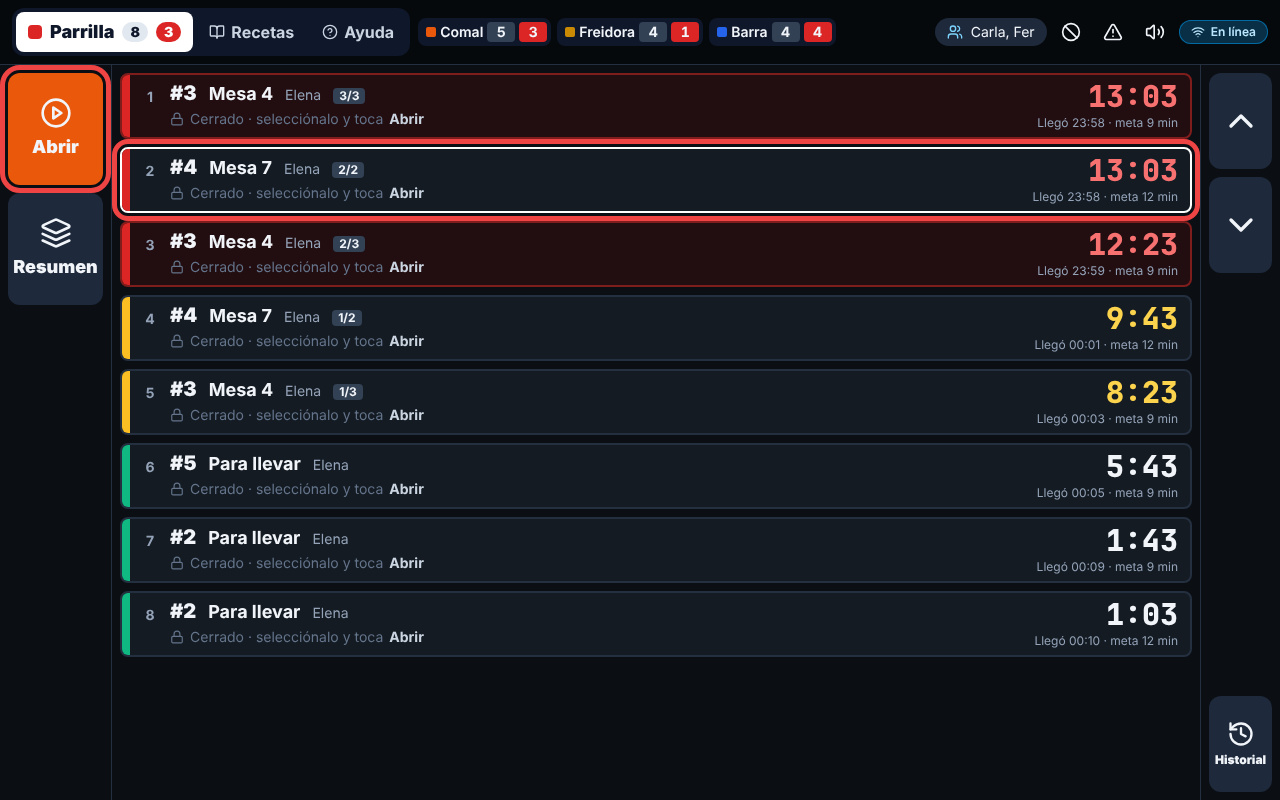
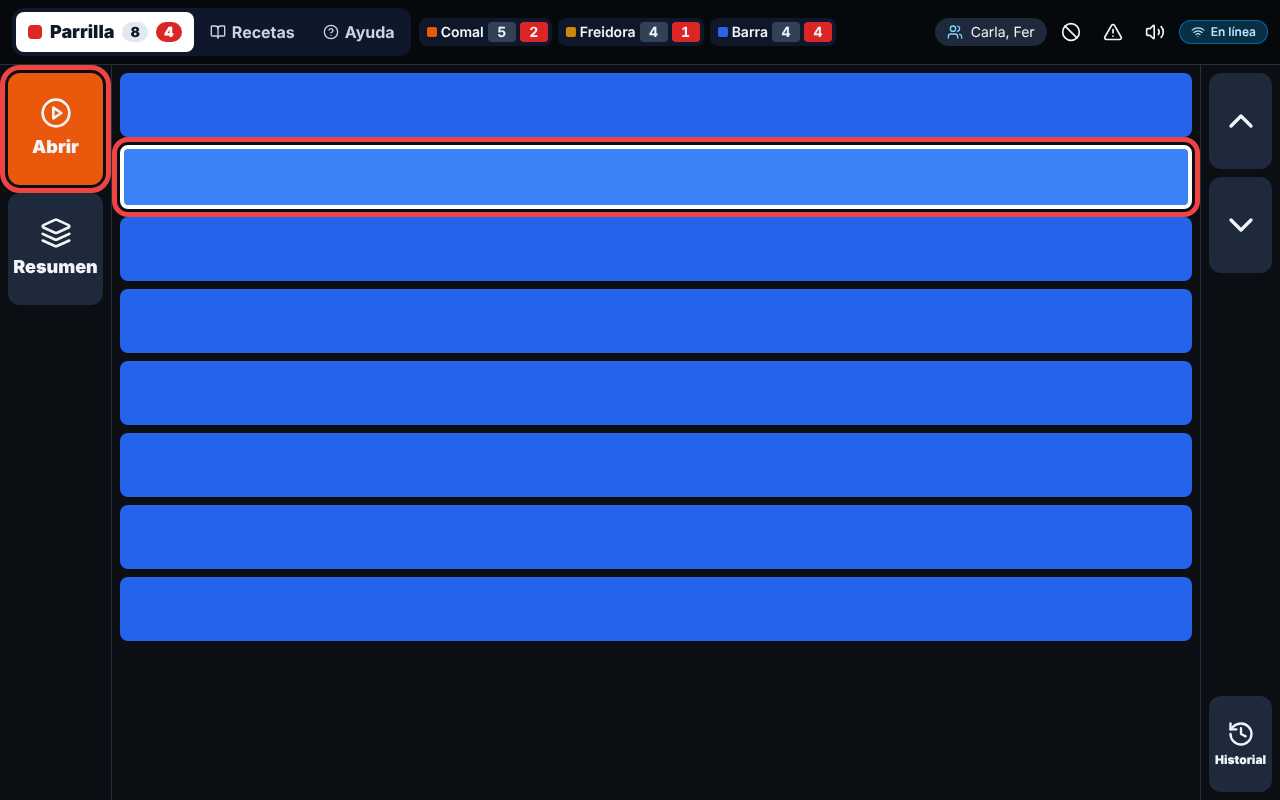
Cocina: tickets cerrados en azul sólido y "Orden N · platillo X de Y" al abrir
Claude-Session: https://claude.ai/code/session_01AAu4YkuVhHAgveMZMVwRgA

diff --git a/src/features/kds/TicketRow.tsx b/src/features/kds/TicketRow.tsx
@@ -1,4 +1,4 @@
-import { AlertOctagon, BookOpen, Check, CloudOff, Lock, MoreHorizontal, RotateCcw, Share2, Star } from 'lucide-react';
+import { AlertOctagon, BookOpen, Check, CloudOff, MoreHorizontal, RotateCcw, Share2, Star } from 'lucide-react';
 import { memo } from 'react';
 import { modifierChips, ticketTiming, actionLabel, type PendingInfo } from '@/lib/kitchen';
 import { clock, formatTime } from '@/lib/time';
@@ -24,6 +24,8 @@ export interface TicketRowProps {
   settings: RestaurantSettings;
   selected: boolean;
   isNew?: boolean;
+  /** Posición del platillo dentro de su orden en esta estación (1 de 3…). */
+  orderPos?: { n: number; total: number };
   onSelect: () => void;
   onBump: () => void;
   onMenu: () => void;
@@ -32,9 +34,9 @@ export interface TicketRowProps {
 }
 
 /**
- * Un renglón por ticket. Cerrado (nuevo) no muestra el contenido; al
- * abrirlo (botón "Abrir" del costado) se ve el platillo y aparecen
- * Receta, "…" y Listo. El cronómetro corre desde que llegó a cocina.
+ * Un renglón por platillo. Cerrado (nuevo) es solo un renglón azul, sin
+ * nada escrito; al abrirlo (botón "Abrir" del costado) se ve todo y
+ * aparecen Receta, "…" y Listo. El cronómetro corre desde que llegó.
  */
 export const TicketRow = memo(function TicketRow(p: TicketRowProps) {
   const t = p.ticket;
@@ -43,6 +45,21 @@ export const TicketRow = memo(function TicketRow(p: TicketRowProps) {
   const open = t.status === 'en_preparacion';
   const live = t.items.filter((i) => i.status !== 'anulado');
   const multi = live.length > 1;
+
+  if (!open) {
+    return (
+      <article
+        onClick={p.onSelect}
+        className={cx('h-16 cursor-pointer rounded-lg border-4 bg-blue-600 transition hover:bg-blue-500',
+          p.selected ? 'border-white' : 'border-blue-600', p.isNew && 'ticket-new')}
+        data-testid={`ticket-${t.order_number}`}
+        data-ticket-id={t.id}
+        data-open="false"
+        aria-selected={p.selected}
+        aria-label={`Ticket cerrado ${p.index + 1}`}
+      />
+    );
+  }
 
   return (
     <article
@@ -61,12 +78,12 @@ export const TicketRow = memo(function TicketRow(p: TicketRowProps) {
 
       <div className="min-w-0 flex-1 py-2 pr-2">
         <div className="flex flex-wrap items-baseline gap-x-3 gap-y-1">
-          <span className="text-xl font-black leading-none">#{t.order_number}</span>
-          <span className="text-lg font-bold leading-none">{ticketPlace(t)}</span>
-          {t.server_name && <span className="text-sm text-slate-400">{t.server_name}</span>}
-          {(t.unit_count ?? 1) > 1 && (
-            <span className="rounded bg-slate-700 px-1.5 text-xs font-bold" title="Unidad de la misma línea">{t.unit_no}/{t.unit_count}</span>
+          <span className="text-xl font-black leading-none">{ticketPlace(t)}</span>
+          <span className="text-base font-semibold leading-none text-slate-300">Orden {t.order_number}</span>
+          {p.orderPos && p.orderPos.total > 1 && (
+            <span className="rounded bg-slate-700 px-1.5 text-sm font-bold" data-testid="order-pos">platillo {p.orderPos.n} de {p.orderPos.total}</span>
           )}
+          {t.server_name && <span className="text-sm text-slate-400">{t.server_name}</span>}
           {t.priority && <span className="flex items-center gap-1 rounded bg-fuchsia-600 px-1.5 text-xs font-bold uppercase"><Star className="h-3 w-3" />Prioridad</span>}
           {t.course > 1 && <span className="rounded bg-violet-700 px-1.5 text-xs font-bold uppercase">Tiempo {t.course}</span>}
           {t.extra_station && <span className="flex items-center gap-1 rounded bg-sky-700 px-1.5 text-xs font-bold uppercase"><Share2 className="h-3 w-3" />Extra</span>}
@@ -79,7 +96,7 @@ export const TicketRow = memo(function TicketRow(p: TicketRowProps) {
           )}
         </div>
 
-        {open ? (
+        {(
           <ul className="mt-2 space-y-1" data-testid="ticket-items">
             {t.items.map((i) => {
               const chips = modifierChips(i.modifiers ?? []);
@@ -113,10 +130,6 @@ export const TicketRow = memo(function TicketRow(p: TicketRowProps) {
               );
             })}
           </ul>
-        ) : (
-          <div className="mt-1 flex items-center gap-1.5 text-sm text-slate-500" data-testid="ticket-closed">
-            <Lock className="h-3.5 w-3.5" /> Cerrado · selecciónalo y toca <b className="text-slate-300">Abrir</b>
-          </div>
         )}
       </div>
 

diff --git a/src/features/kds/KdsPage.tsx b/src/features/kds/KdsPage.tsx
@@ -82,6 +82,17 @@ export function KdsPage() {
   const done = useMemo(() => all.filter((t) => t.status === 'listo' || t.status === 'entregado' || t.status === 'anulado')
     .sort((a, b) => (b.ready_at ?? b.updated_at).localeCompare(a.ready_at ?? a.updated_at)), [all]);
   const selected = queue.find((t) => t.id === selectedId) ?? queue[0] ?? null;
+  // "Orden 675 · platillo 2 de 3": cada platillo es su propio ticket, así que una orden se repite.
+  const orderPos = useMemo(() => {
+    const byOrder = new Map<string, TicketWithItems[]>();
+    for (const t of all) if (t.status !== 'anulado') byOrder.set(t.order_id, [...(byOrder.get(t.order_id) ?? []), t]);
+    const pos = new Map<string, { n: number; total: number }>();
+    for (const ts of byOrder.values()) {
+      ts.sort((a, b) => a.created_at.localeCompare(b.created_at) || (a.unit_no ?? 0) - (b.unit_no ?? 0) || a.id.localeCompare(b.id));
+      ts.forEach((t, i) => pos.set(t.id, { n: i + 1, total: ts.length }));
+    }
+    return pos;
+  }, [all]);
 
   // Otras estaciones: tickets en cola (izq.) y urgentes (der.).
   const others = useMemo(() => (stations ?? []).filter((s) => s.active && s.kind !== 'pase' && s.id !== stationId).map((s) => {
@@ -224,7 +235,7 @@ export function KdsPage() {
               <div className="space-y-2 p-2">
                 {queue.map((t, i) => (
                   <TicketRow key={t.id} ticket={t} index={i} now={now} tz={restaurant!.timezone} settings={restaurant!.settings}
-                    selected={t.id === selected?.id} isNew={fresh.has(t.id)}
+                    selected={t.id === selected?.id} isNew={fresh.has(t.id)} orderPos={orderPos.get(t.id)}
                     onSelect={() => setSelectedId(t.id)}
                     onBump={() => void act(t, 'listo')}
                     onMenu={() => setMenuFor(t)}

diff --git a/src/features/kds/KdsHelp.tsx b/src/features/kds/KdsHelp.tsx
@@ -8,17 +8,18 @@ const STEPS: { img: string; title: string; text: string[] }[] = [
     img: '/ayuda/kds-1-lista.png',
     title: '1. Los tickets llegan en lista',
     text: [
-      'Cada renglón es UN platillo. Si la mesa pide 3 arracheras, llegan 3 renglones (1/3, 2/3, 3/3).',
-      'Los nuevos se agregan hasta abajo. El reloj de la derecha corre desde que llegó a la cocina.',
-      'Verde = a tiempo, amarillo = atención, rojo = tarde.',
+      'Cada renglón es UN platillo. Los azules están cerrados: todavía no se ve qué es.',
+      'Los nuevos se agregan hasta abajo. Si la mesa pide 3 arracheras, llegan 3 renglones.',
     ],
   },
   {
     img: '/ayuda/kds-2-abrir.png',
     title: '2. Selecciona y toca "Abrir"',
     text: [
-      'Los tickets llegan cerrados. Toca el renglón para seleccionarlo (queda con borde blanco) y luego "Abrir".',
-      'Abrir = empezar a prepararlo. Ahí ya ves el platillo, sus modificadores (MAÍZ, SIN CEBOLLA…) y notas.',
+      'Toca un renglón azul para seleccionarlo (queda con borde blanco) y luego "Abrir".',
+      'Abrir = empezar a prepararlo. Ahí ya ves la mesa, el platillo, sus modificadores (MAÍZ, SIN CEBOLLA…) y notas.',
+      '"Orden 675 · platillo 2 de 3" quiere decir: la orden 675 trae 3 platillos para esta estación y este es el segundo.',
+      'El reloj corre desde que llegó a la cocina: verde = a tiempo, amarillo = atención, rojo = tarde.',
     ],
   },
   {
